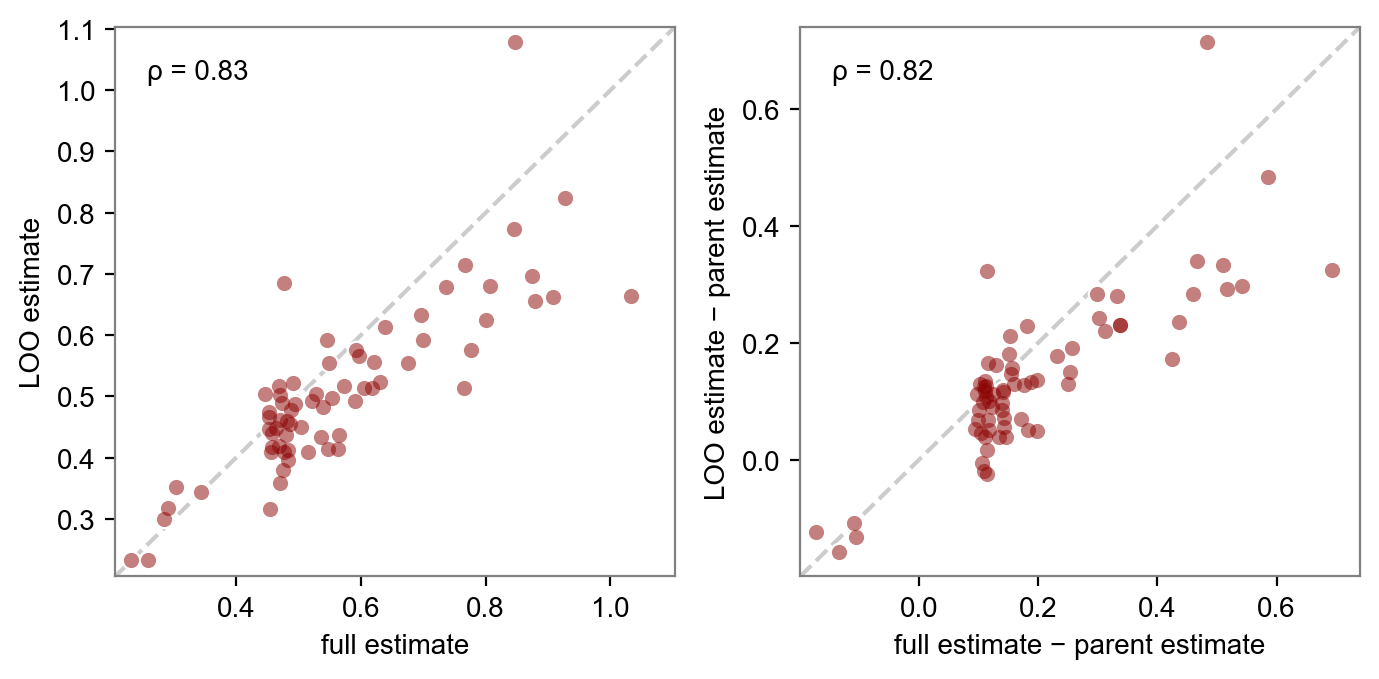
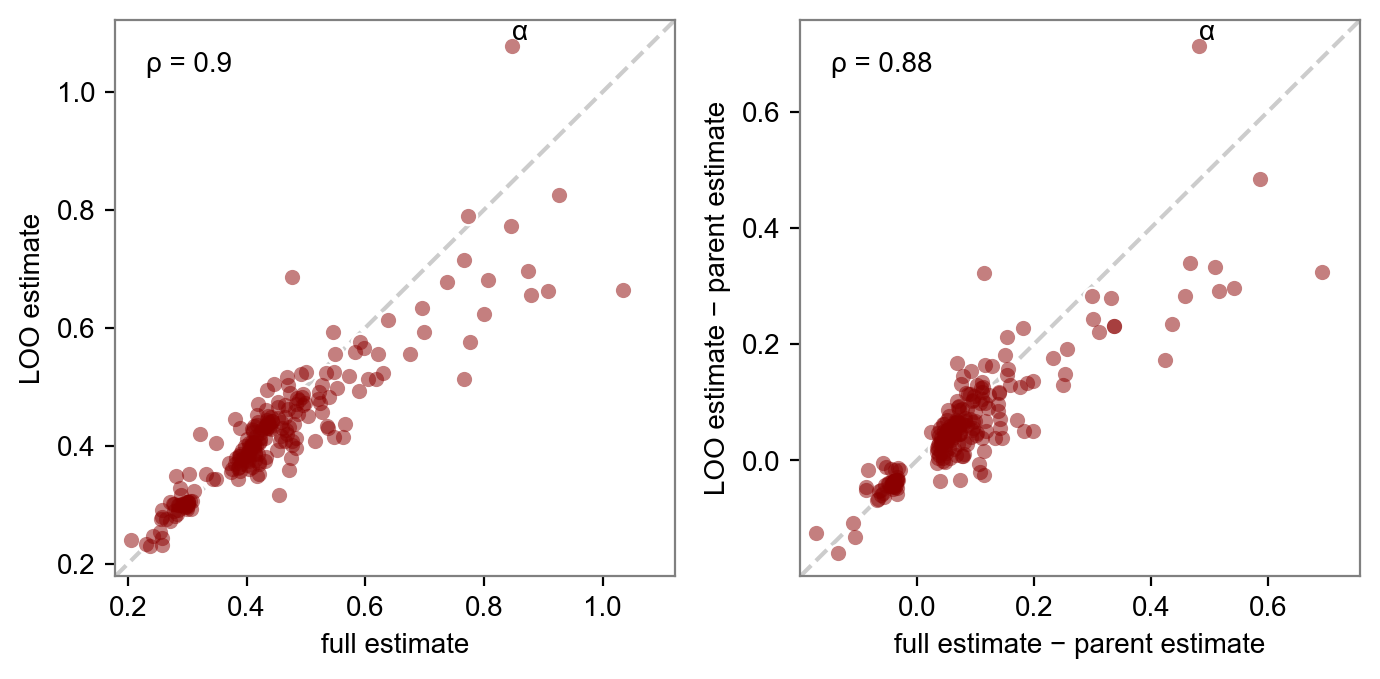
Broaden --vary-leaves from leaves to everything by A,B

diff --git a/pyrocov/mutrans.py b/pyrocov/mutrans.py
@@ -61,15 +61,15 @@ def get_fine_regions(columns, min_samples=50):
     return frozenset(parts for parts, count in counts.items() if count >= min_samples)
 
 
-def rank_leaves(
+def rank_loo_lineages(
     full_dataset: dict,
     full_result: dict,
     min_samples: int = 100,
 ) -> List[str]:
     """
-    Compute a list of leaf lineages ranked in descending order of how much
-    their growth rate differs from their parents' growth rate. This is used in
-    growth rate prediction experiments.
+    Compute a list of lineages ranked in descending order of how much their
+    growth rate differs from their parents' growth rate. This is used in growth
+    rate leave-one-out prediction experiments.
     """
     # Decompress lineage names before computing parents.
     lineage_id_inv = [
@@ -80,6 +80,8 @@ def rank_leaves(
     # Compute children sets.
     children = defaultdict(list)
     for child in lineage_id_inv:
+        if child in ("A", "B"):
+            continue  # ignore very early lineages
         parent = pangolin.get_parent(child)
         if parent is None:
             continue  # ignore the root node
@@ -87,10 +89,10 @@ def rank_leaves(
         if parent not in lineage_id:
             continue  # ignore orphans
 
-    # Filter to often-observed leaves.
+    # Filter to often-observed lineages.
     weekly_strains = full_dataset["weekly_strains"]  # [T, P, S]
     lineage_counts = weekly_strains.sum([0, 1])  # [S]
-    leaves = []
+    lineages = []
     for c, child in enumerate(lineage_id_inv):
         parent = pangolin.get_parent(child)
         if parent is None:
@@ -98,25 +100,24 @@ def rank_leaves(
         if parent not in lineage_id:
             continue  # ignore orphans
         if children[child]:
-            continue  # restrict to leaves
+            continue  # restrict to lineages
         if lineage_counts[c] < min_samples:
             continue  # ignore rare lineages
-        leaves.append(child)
+        lineages.append(child)
 
     # Sort leaf nodes by their distance from parent.
     rate_loc = full_result["median"]["rate_loc"]
-    ranked_leaves = []
-    for child in leaves:
+    ranked_lineages = []
+    for child in lineages:
         parent = pangolin.get_parent(child)
         assert parent is not None
         c = lineage_id[child]
         p = lineage_id[parent]
         gap = (rate_loc[c] - rate_loc[p]).abs().item()
-        ranked_leaves.append((gap, child))
-    ranked_leaves.sort(reverse=True)
-    print("DEBUG", ranked_leaves[:20])
+        ranked_lineages.append((gap, child))
+    ranked_lineages.sort(reverse=True)
 
-    return [pangolin.compress(name) for gap, name in ranked_leaves]
+    return [pangolin.compress(name) for gap, name in ranked_lineages]
 
 
 def load_gisaid_data(

diff --git a/mutrans.py b/mutrans.py
@@ -12,7 +12,7 @@ from typing import Callable, Union
 import pyro
 import torch
 
-from pyrocov import mutrans
+from pyrocov import mutrans, pangolin
 from pyrocov.util import torch_map
 
 logger = logging.getLogger(__name__)
@@ -164,35 +164,38 @@ def vary_leaves(args, default_config):
     # Load a single common dataset.
     dataset = load_data(args)
     lineage_id = {name: i for i, name in enumerate(dataset["lineage_id_inv"])}
+    descendents = pangolin.find_descendents(dataset["lineage_id_inv"])
 
     # Run default config to get a ranking of leaves.
     result = fit_svi(args, dataset, *default_config)
 
     # Rank lineages by divergence from parent.
-    leaves = mutrans.rank_leaves(dataset, result)
-    leaves = leaves[: args.vary_leaves]
+    lineages = mutrans.rank_loo_lineages(dataset, result)
+    lineages = lineages[: args.vary_leaves]
     logger.info(
-        "\n".join([f"Predicting growth rate of {len(leaves)} leaf lineages:"] + leaves)
+        "\n".join(
+            [f"Leave-one-out predicting growth rate of {len(lineages)} lineages:"]
+            + lineages
+        )
     )
 
-    # Create a set of inference configs.
-    configs = []
-    for leaf in leaves:
-        holdout = {"exclude": {"lineage": "^" + leaf + "$"}}
+    # Run inference for each lineage. This is very expensive.
+    results = {}
+    for lineage in lineages:
+        holdout = {"exclude": {"lineage": "^" + lineage + "$"}}
         config = list(default_config)
         config[-1] = holdout_to_hashable(holdout)
         config = tuple(config)
-        configs.append(config)
-
-    results = {}
-    for config in configs:
         logger.info(f"Config: {config}")
 
-        # Construct a leave-one-out dataset.
-        i = lineage_id[leaf]
+        # Construct a leave-one-out dataset by zeroing out a subclade.
+        i = lineage_id[lineage]
         loo_dataset = dataset.copy()
         loo_dataset["weekly_strains"] = dataset["weekly_strains"].clone()
-        loo_dataset["weekly_strains"][:, :, i] = 0
+        clade = [i]
+        for descendent in descendents[lineage]:
+            clade.append(lineage_id[descendent])
+        loo_dataset["weekly_strains"][:, :, clade] = 0
 
         # Run SVI
         result = fit_svi(args, loo_dataset, *config)

diff --git a/pyrocov/pangolin.py b/pyrocov/pangolin.py
@@ -59,6 +59,14 @@ PANGOLIN_ALIASES = {
     "Z": "B.1.177.50",
 }
 
+# From https://www.who.int/en/activities/tracking-SARS-CoV-2-variants/
+WHO_ALIASES = {
+    "α": ["B.1.1.7"],
+    "β": ["B.1.351", "B.1.351.2", "B.1.351.3"],
+    "γ": ["P.1", "P.1.1", "P.1.2"],
+    "δ": ["B.1.617.2", "AY.1", "AY.2", "AY.3"],
+}
+
 
 def update_aliases():
     repo = os.path.expanduser(PANGOLIN_REPO)

diff --git a/paper/README.md b/paper/README.md
@@ -32,8 +32,8 @@ The following plots assess robustness via 2-fold crossvalidation, splitting data
 ![Lineage correlation](lineage_agreement.png)
 ![Mutation correlation](mutation_agreement.png)
 ![Lineage box plots](strain_europe_boxplot.png)
-![Mutation box plots](mutation_europe_boxplot_s.png)
-![Mutation box plots](mutation_europe_boxplot_t.png)
+![Mutation box plots](mutation_europe_boxplot_rankby_s.png)
+![Mutation box plots](mutation_europe_boxplot_rankby_t.png)
 ![Lineage prediction](lineage_prediction.png)
 
 ## Misc plots
